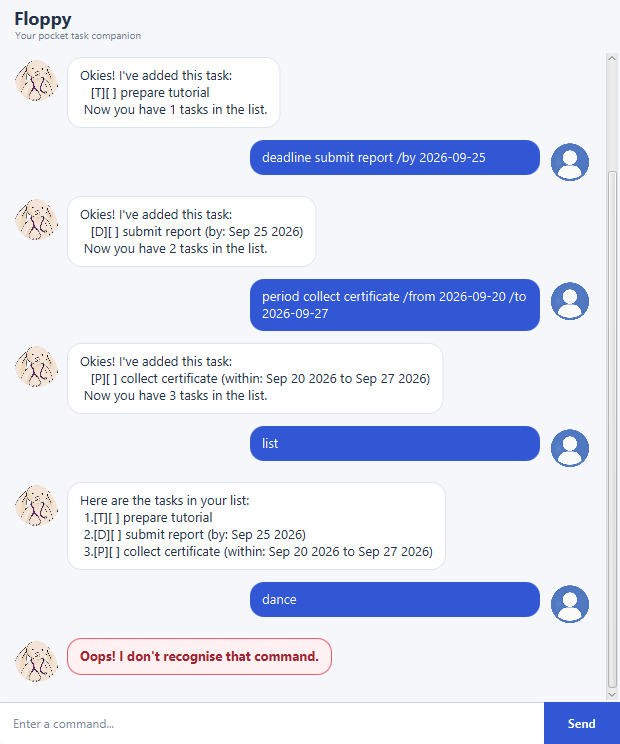
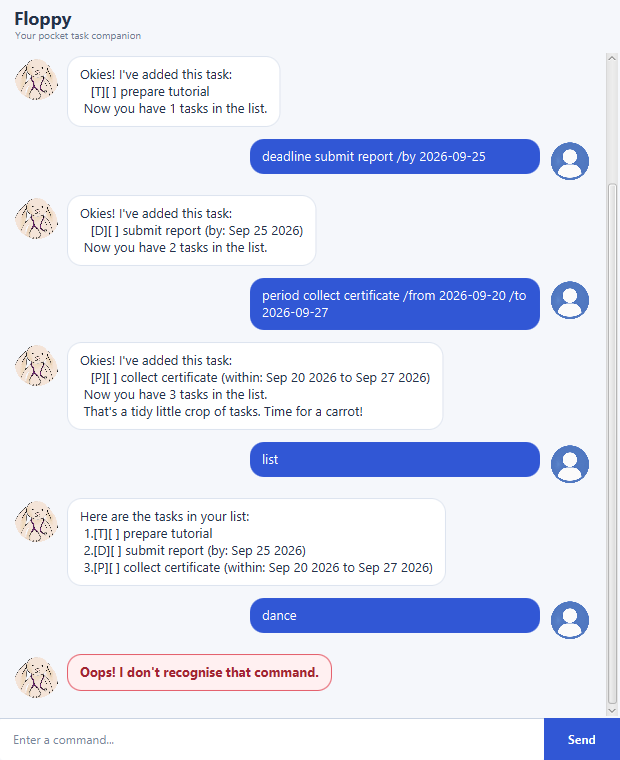
Give Floppy a personality that craves carrots
Add occasional carrot-themed remarks to Floppy's greetings and task
responses. Update automated tests, the user guide, and the UI
screenshot to reflect the new personality.

diff --git a/src/main/java/floppy/Ui.java b/src/main/java/floppy/Ui.java
@@ -8,6 +8,7 @@ import java.util.Scanner;
  * Handles all console input and output for the chatbot.
  */
 public class Ui implements AutoCloseable {
+    private static final int CARROT_REMARK_INTERVAL = 3;
     private static final String DIVIDER = "____________________________________________________________";
     private static final String BANNER = " _____ _                         \n"
             + "|  ___| | ___  _ __  _ __  _   _\n"
@@ -54,9 +55,19 @@ public class Ui implements AutoCloseable {
      */
     public void showWelcome() {
         output.println(BANNER);
-        output.println("Hello! I'm Floppy.");
-        output.println("What can I do for you?");
+        output.println(getWelcomeMessage());
         showLine();
+    }
+
+    /**
+     * Returns the greeting shared by the console and graphical interfaces.
+     *
+     * @return Floppy's welcome message.
+     */
+    static String getWelcomeMessage() {
+        return "Hello! I'm Floppy.\n"
+                + "I keep tasks tidy and carrots close.\n"
+                + "What can I do for you?";
     }
 
     /**
@@ -64,6 +75,7 @@ public class Ui implements AutoCloseable {
      */
     public void showGoodbye() {
         output.println(" Bye. Hope to see you again soon!");
+        output.println(" I'll be nibbling a carrot until then.");
     }
 
     /**
@@ -114,6 +126,9 @@ public class Ui implements AutoCloseable {
         output.println(" Okies! I've added this task:");
         output.println("   " + task);
         output.println(" Now you have " + taskCount + " tasks in the list.");
+        if (taskCount % CARROT_REMARK_INTERVAL == 0) {
+            output.println(" That's a tidy little crop of tasks. Time for a carrot!");
+        }
     }
 
     /**
@@ -136,6 +151,7 @@ public class Ui implements AutoCloseable {
     public void showTaskMarked(Task task) {
         output.println(" Nice! I've marked this task as done:");
         output.println("   " + task);
+        output.println(" That deserves a celebratory carrot!");
     }
 
     /**

diff --git a/src/test/java/floppy/UiTest.java b/src/test/java/floppy/UiTest.java
@@ -47,13 +47,33 @@ class UiTest {
 
         String output = outputBytes.toString(StandardCharsets.UTF_8);
         assertTrue(output.contains("Hello! I'm Floppy."));
+        assertTrue(output.contains("I keep tasks tidy and carrots close."));
         assertTrue(output.contains("Here are the tasks in your list:"));
         assertTrue(output.contains("Here are the matching tasks in your list:"));
         assertTrue(output.contains("Now you have 1 tasks in the list."));
         assertTrue(output.contains("marked this task as done"));
+        assertTrue(output.contains("That deserves a celebratory carrot!"));
         assertTrue(output.contains("marked this task as not done"));
         assertTrue(output.contains("Now you have 0 tasks in the list."));
         assertTrue(output.contains("Oops! Invalid command."));
         assertTrue(output.contains("Bye. Hope to see you again soon!"));
+        assertTrue(output.contains("I'll be nibbling a carrot until then."));
+    }
+
+    @Test
+    void showTaskAdded_everyThirdTask_addsCarrotRemark() {
+        ByteArrayOutputStream outputBytes = new ByteArrayOutputStream();
+        Ui ui = new Ui(
+                new Scanner(""),
+                new PrintStream(outputBytes, true, StandardCharsets.UTF_8));
+        Todo todo = new Todo("read book");
+
+        ui.showTaskAdded(todo, 2);
+        assertFalse(outputBytes.toString(StandardCharsets.UTF_8).contains("Time for a carrot!"));
+
+        outputBytes.reset();
+        ui.showTaskAdded(todo, 3);
+        assertTrue(outputBytes.toString(StandardCharsets.UTF_8).contains("Time for a carrot!"));
+        ui.close();
     }
 }

diff --git a/src/test/java/floppy/FloppyTest.java b/src/test/java/floppy/FloppyTest.java
@@ -27,6 +27,14 @@ class FloppyTest {
         String response = floppy.getResponse("bye");
 
         assertTrue(response.contains("Bye. Hope to see you again soon!"));
+        assertTrue(response.contains("carrot"));
+    }
+
+    @Test
+    void getWelcomeMessage_containsCarrotLovingPersonality() {
+        Floppy floppy = new Floppy();
+
+        assertTrue(floppy.getWelcomeMessage().contains("carrots"));
     }
 
     @Test
@@ -35,7 +43,9 @@ class FloppyTest {
         Floppy floppy = new Floppy(dataFile.toString());
 
         assertTrue(floppy.getResponse("todo read book").contains("[T][ ] read book"));
-        assertTrue(floppy.getResponse("mark 1").contains("[T][X] read book"));
+        String markResponse = floppy.getResponse("mark 1");
+        assertTrue(markResponse.contains("[T][X] read book"));
+        assertTrue(markResponse.contains("celebratory carrot"));
         assertTrue(floppy.getResponse("find BOOK").contains("[T][X] read book"));
 
         Floppy reloadedFloppy = new Floppy(dataFile.toString());

diff --git a/src/main/java/floppy/Floppy.java b/src/main/java/floppy/Floppy.java
@@ -86,7 +86,7 @@ public class Floppy {
      * @return Initial chatbot greeting.
      */
     public String getWelcomeMessage() {
-        return "Hello! I'm Floppy.\nWhat can I do for you?";
+        return Ui.getWelcomeMessage();
     }
 
     /**

diff --git a/docs/README.md b/docs/README.md
@@ -2,9 +2,10 @@
 
 ![Floppy's conversation window](Ui.png)
 
-Floppy is a friendly desktop task manager for people who prefer entering short,
-precise commands. It remembers your tasks between sessions and supports todos,
-deadlines, events, and tasks that can be completed within a date range.
+Floppy is a cheerful, carrot-loving desktop task manager for people who prefer
+entering short, precise commands. It remembers your tasks between sessions and
+supports todos, deadlines, events, and tasks that can be completed within a
+date range.
 
 ## Quick start
 
